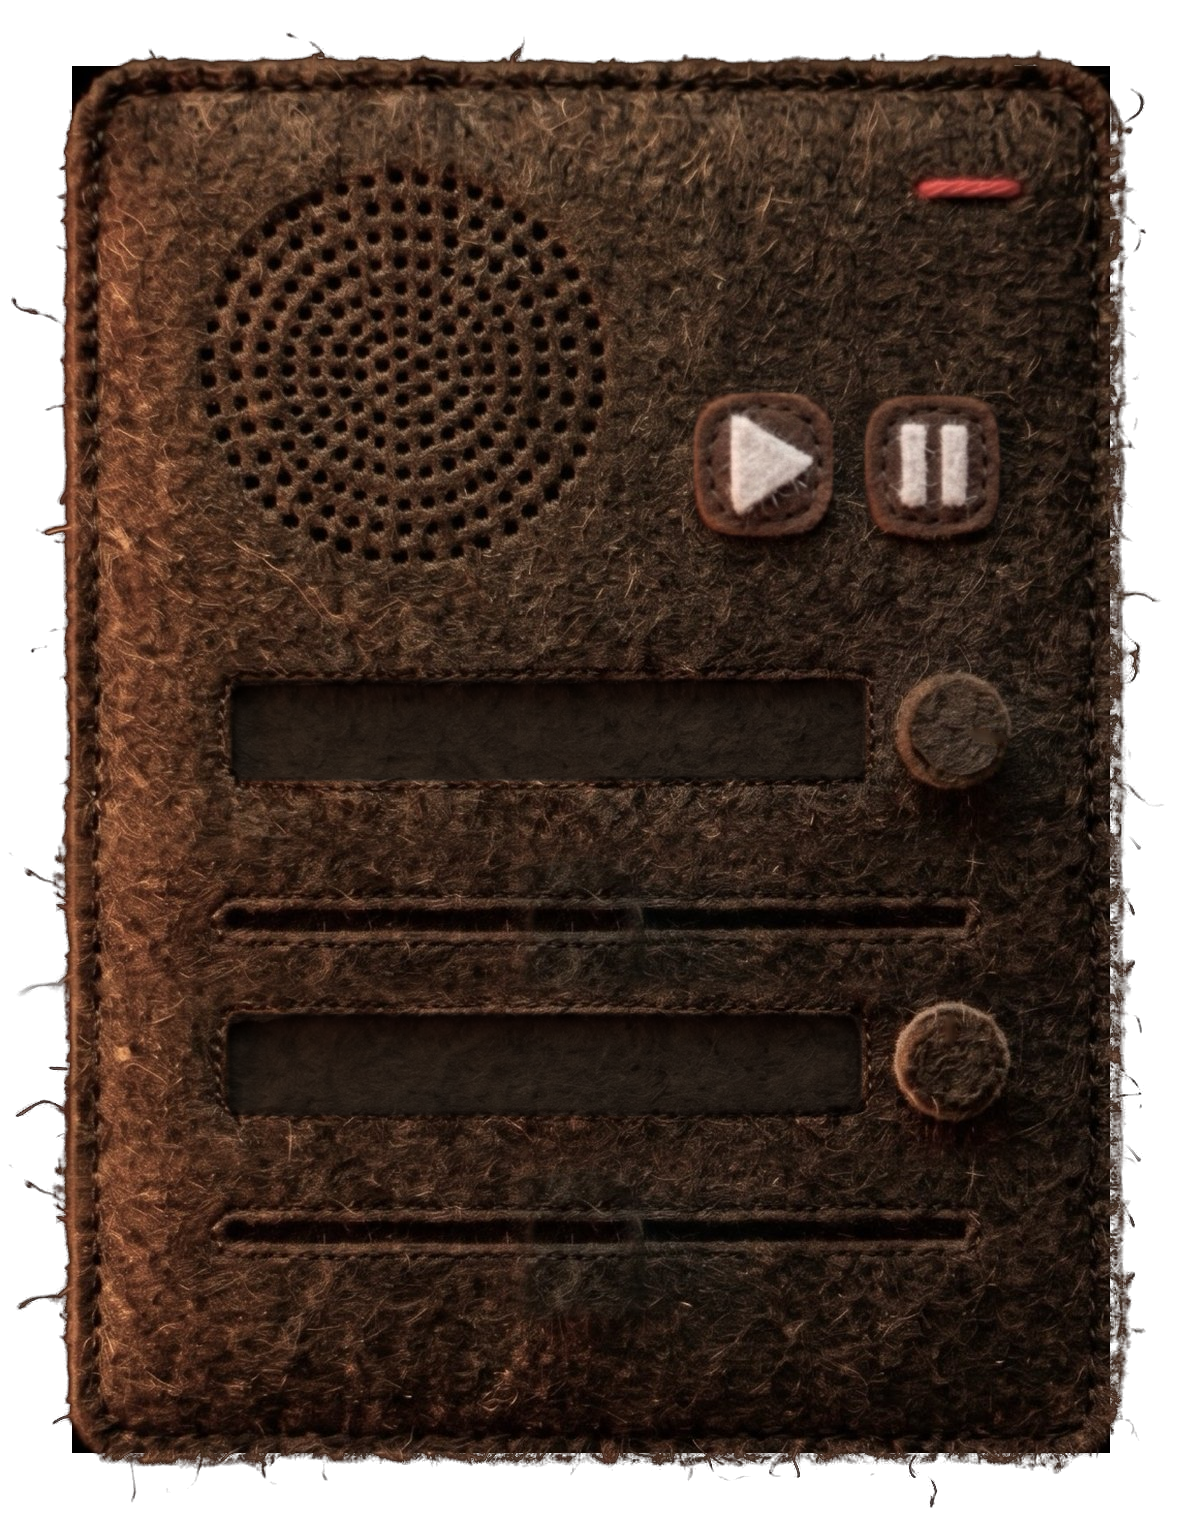
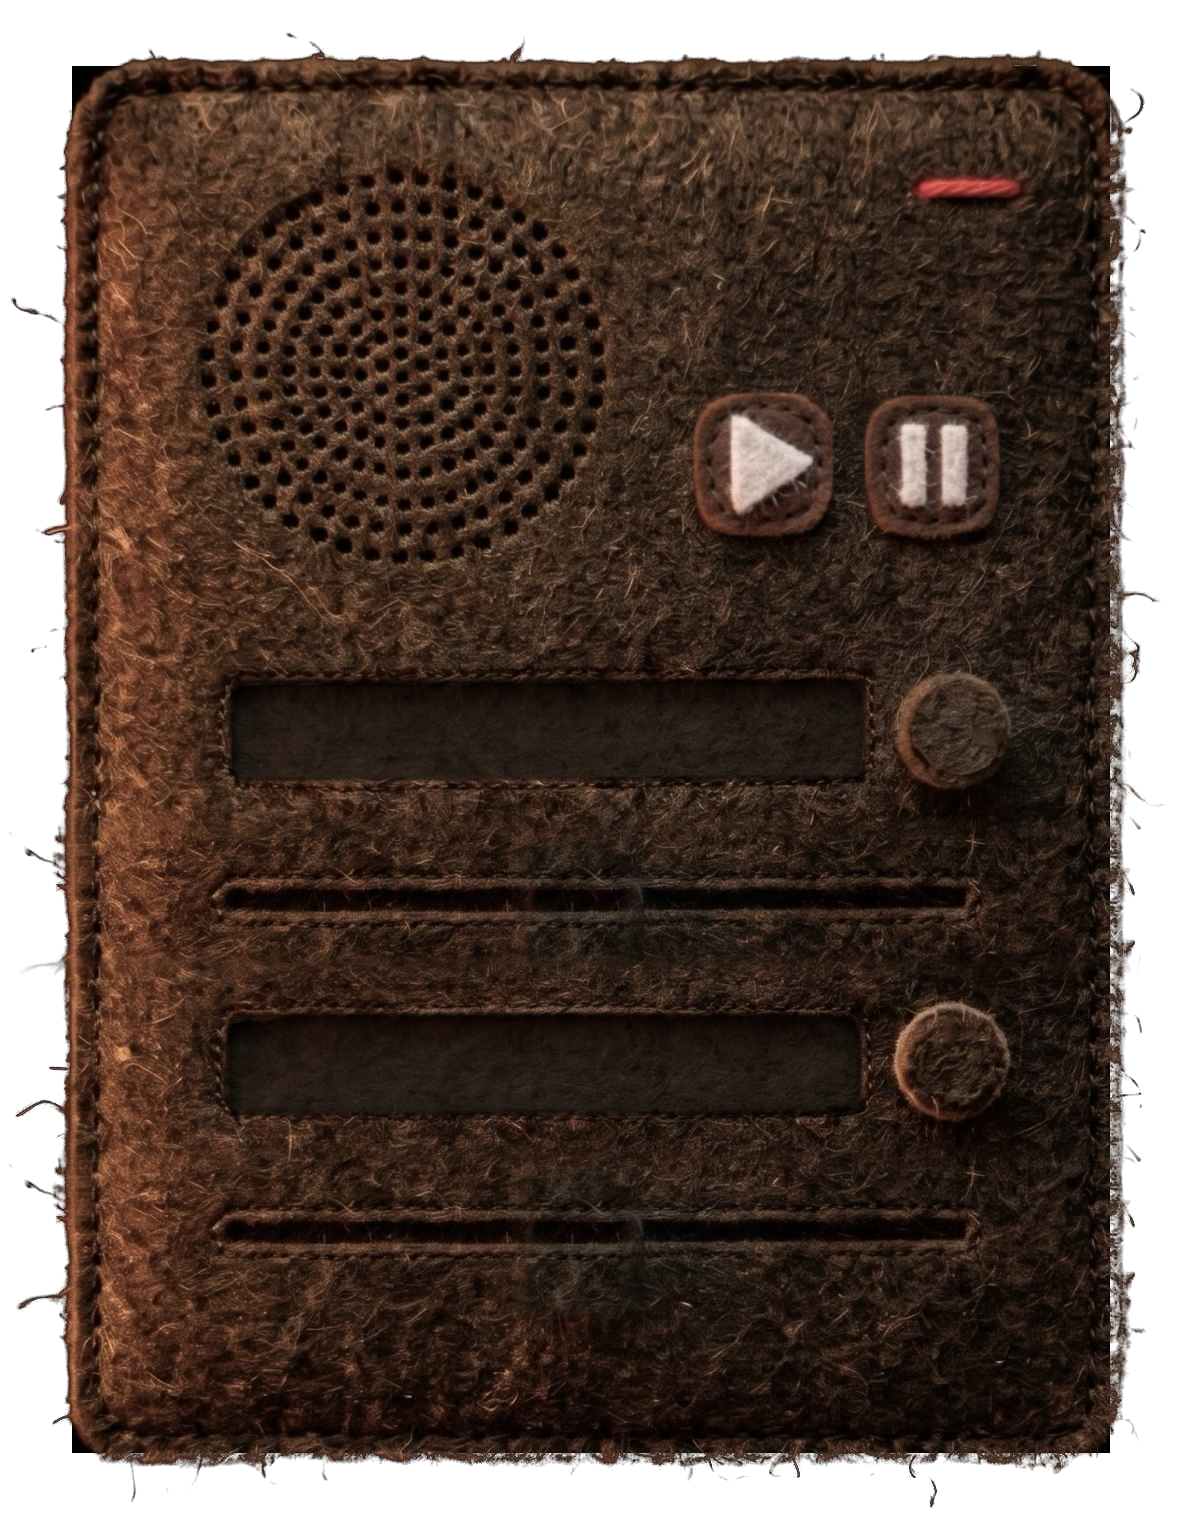
Audio Player: the sound's slider sits as far under its window as the music's
Claude-Session: https://claude.ai/code/session_01NDsvQ4w6b4M39K7iEhCswz

Changed region(s): [[0.0305, 0.526, 0.9746, 0.6498]]

diff --git a/src/components/TapePlayer.js b/src/components/TapePlayer.js
@@ -38,7 +38,7 @@ const sizeFor = (winW, winH) => {
 const VMIN = 0.05;
 const X0 = 330, X1 = 1464, Y = 2003, THUMB_D = 194; // (the knob picture is 194 wide with its shadow, the knob itself 134)
 const SLOT = { x: 230, y: 1925, w: 1340, h: 160 }; // where a finger can take the slider
-const SOUND_DY = -535; // the sound's own slot: the same slot, 535 higher (under the sound's window)
+const SOUND_DY = -570; // the sound's own slot: the same slot, 570 higher (as far under the sound's window as the music's is under the music's)
 
 // a felt slider: tap the slot to jump there, drag the knob to slide (right is louder); it clicks softly every 5%
 function FeltSlider({ f, dy, value, onChange, thumb, label }) {
